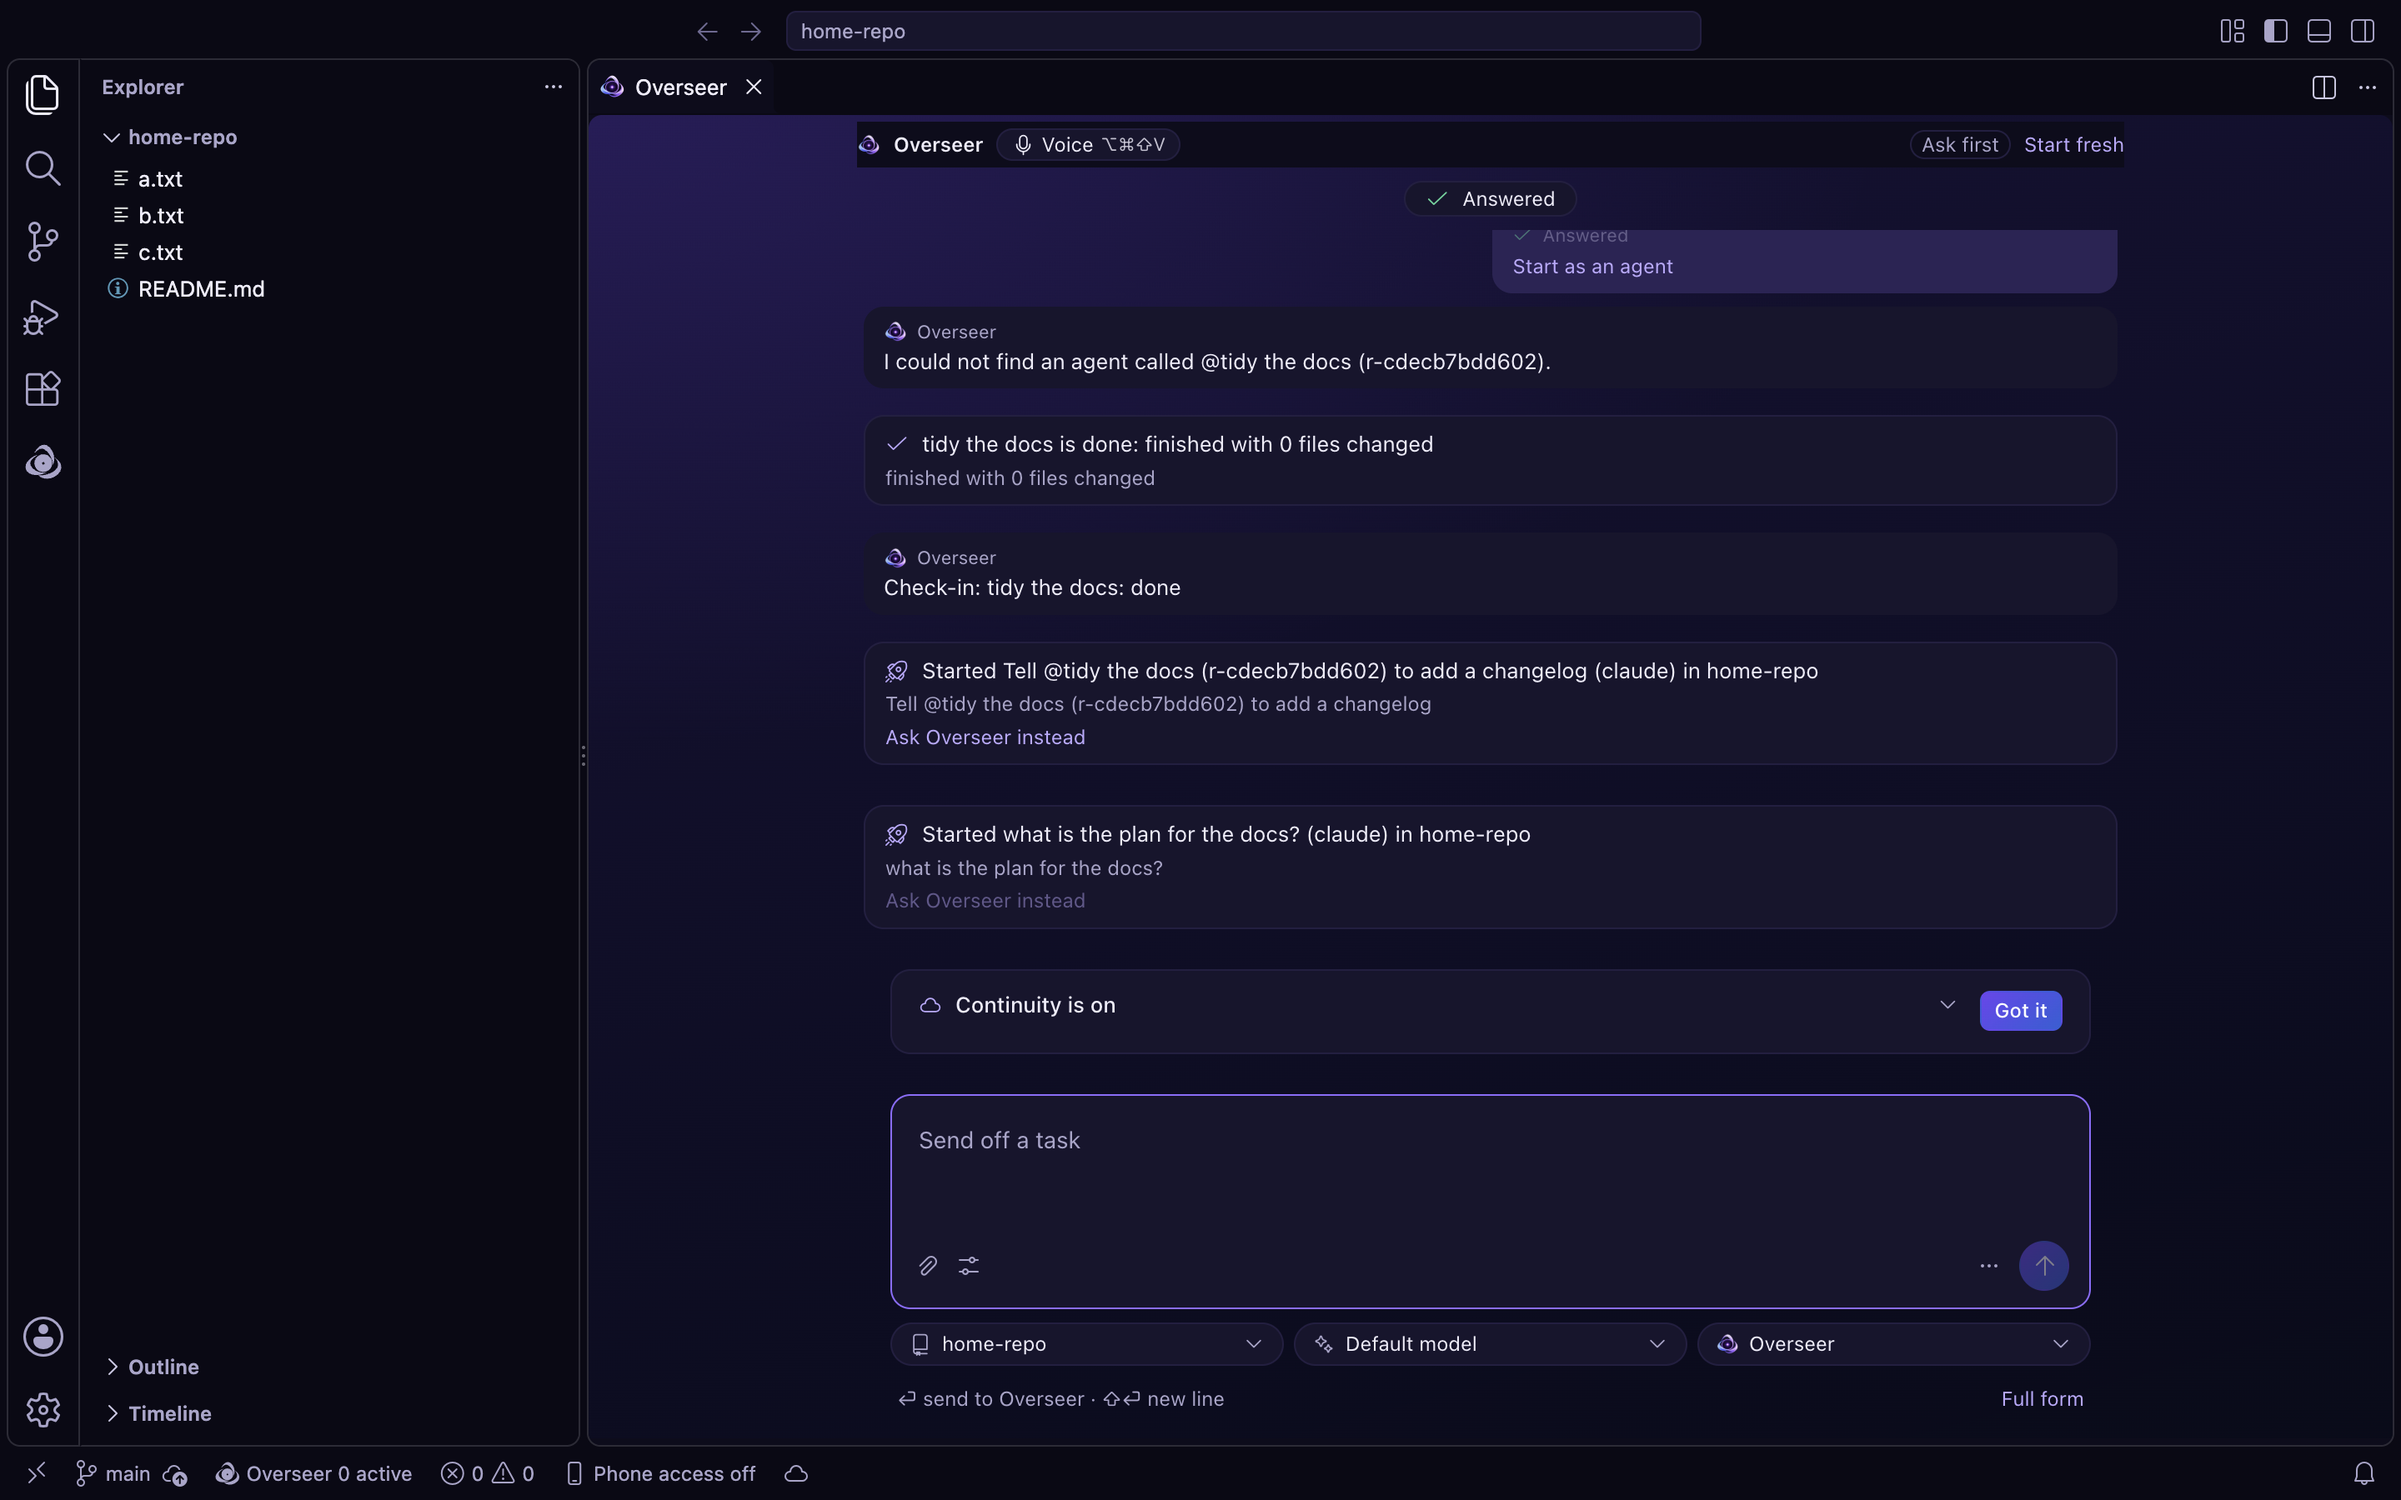
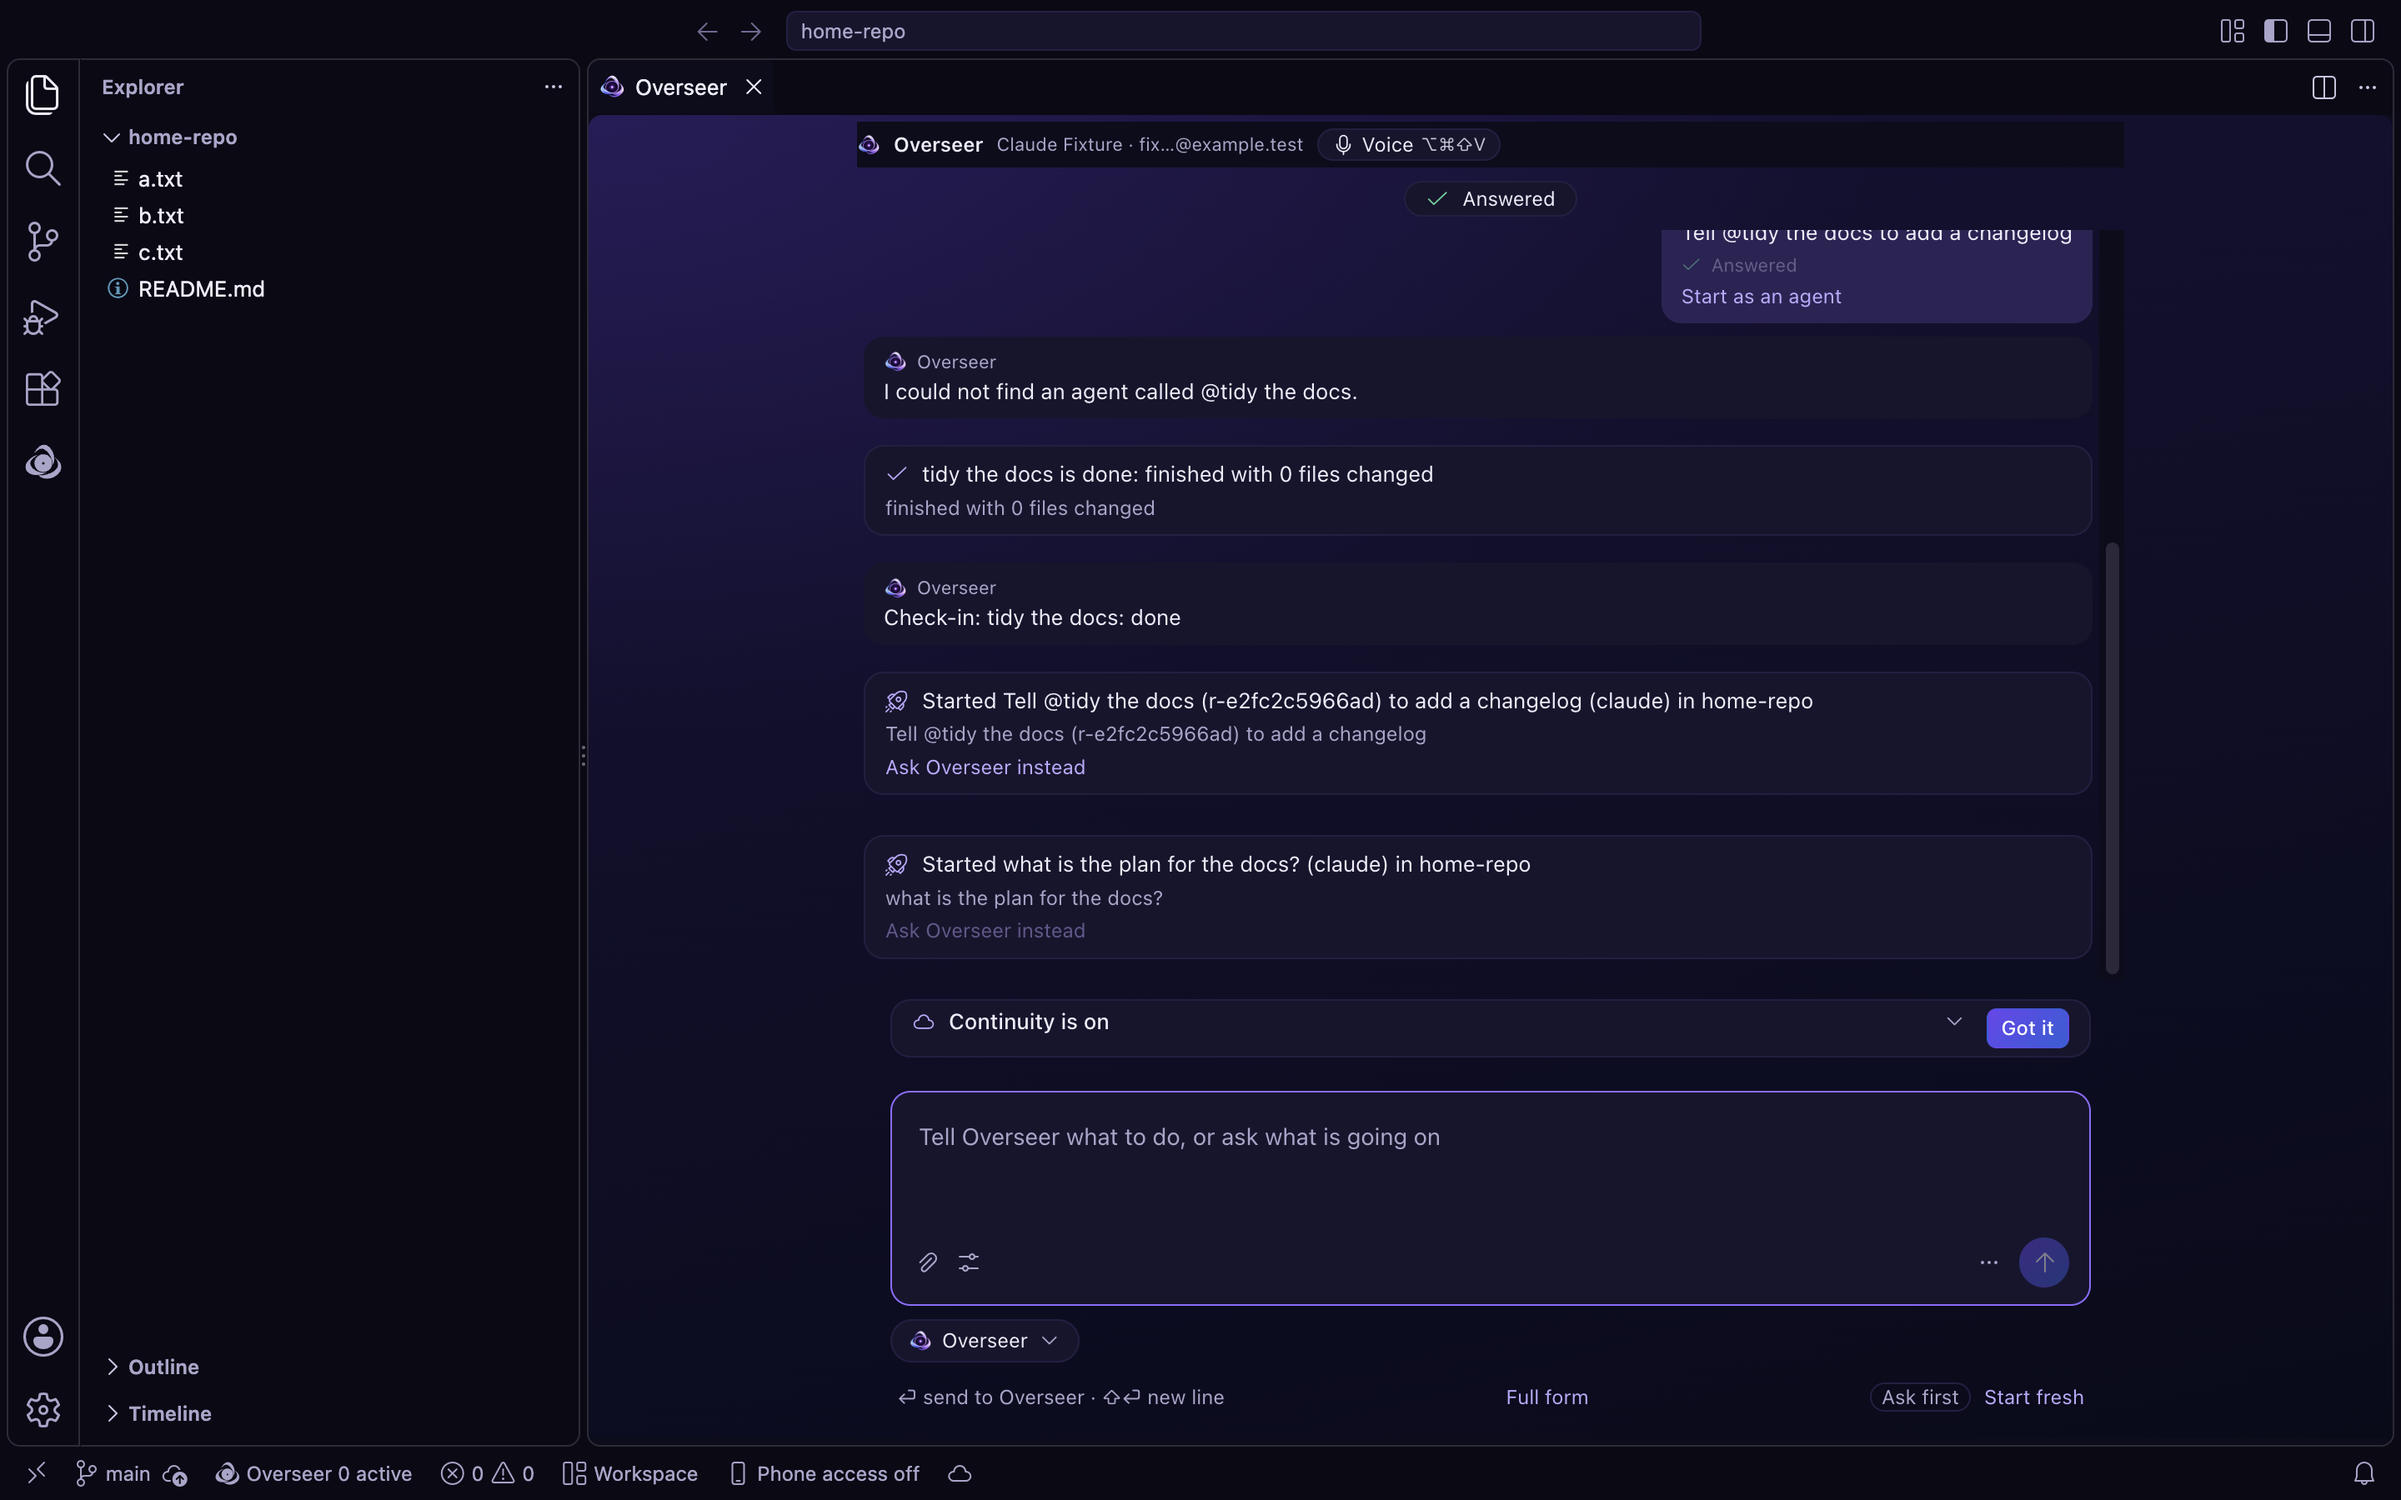
feat(home): Ask first and Start fresh at the bottom right, under the message box (AC-264)
The owner (2026-09-30): the conversation's level and Start fresh move from the Overseer panel's
header to the composer's foot, at its right. They still hide before there is a conversation and
while Overseer sits beside an agent. scenario-home checks the place and screenshots it.

Claude-Session: https://claude.ai/code/session_019W7pthBW8sRbnrHECqQtvR

diff --git a/extension/media/dashboard.css b/extension/media/dashboard.css
@@ -197,7 +197,7 @@ body[data-aside="1"] .view-composer .composer-view { display: none; }
 body[data-aside="1"] .home { padding: 0 var(--ov-space-3); }
 body[data-aside="1"] .home-list { max-height: none; }
 body[data-aside="1"] .voice-mark { width: min(200px, 60%); }
-body[data-aside="1"] .home-voice-heard, body[data-aside="1"] #home-fresh, body[data-aside="1"] .home-level { display: none; }
+body[data-aside="1"] .home-voice-heard, body[data-aside="1"] .home-foot-tools { display: none; }
 @keyframes aside-in { from { transform: translateX(40%); opacity: 0; } to { transform: none; opacity: 1; } }
 @media (prefers-reduced-motion: reduce) { body[data-voice="on"] .home-stage, body[data-aside="1"] .main > .view-composer { animation: none; } }
 .home-list[hidden] { display: none; }
@@ -212,7 +212,8 @@ body[data-conversation="1"] .view-composer > .composer-view, body[data-voice="on
 body[data-conversation="1"] .view-composer .hero-mark, body[data-conversation="1"] .view-composer .hero-title { display: none; }
 /* With cards to read, the mark gives them room. */
 body[data-conversation="1"] .home-stage .voice-mark { width: min(220px, 50vw, 22vh); }
-.home[data-empty="1"] .home-level, .home[data-empty="1"] #home-fresh { display: none; }
+body:not([data-conversation="1"]) .home-foot-tools { display: none; }
+.home-foot-tools { display: flex; align-items: center; gap: var(--ov-space-2); flex: none; }
 
 /* AC-247: home's input is always on screen. A one-time notice (Continuity) above the box is one
    compact line while folded, so it never pushes the input off. */

diff --git a/extension/media/home.js b/extension/media/home.js
@@ -56,7 +56,12 @@
     const backLabel = el('span', 'home-back-agent-label');
     backAgent.append(ui.icon('eye', 'sm'), el('span', 'home-back-agent-verb', 'Back to'), backLabel, el('kbd', null, '⌥⌘U'));
     backAgent.addEventListener('click', () => post({ type: 'backToAgent', runId: backAgent.dataset.run }));
-    head.append(account, vToggle, vstrip, el('span', 'spacer'), needs, level, fresh, unaside);
+    head.append(account, vToggle, vstrip, el('span', 'spacer'), needs, unaside);
+    // The conversation's level and Start fresh sit at the bottom right, under the message box
+    // (the owner, 2026-09-30), in the composer's foot when it is there.
+    const footTools = el('span', 'home-foot-tools'); footTools.append(level, fresh);
+    const composerFoot = host.querySelector('.composer-foot');
+    if (composerFoot) composerFoot.append(footTools); else head.append(footTools);
     // The voice view's stage: the mark, the words heard and said, and the strip's controls.
     const stage = el('section', 'home-stage'); stage.id = 'voice-stage'; stage.hidden = true; stage.setAttribute('aria-label', 'Voice Mode');
     const voiceStage = window.OverseerVoiceStage && layers ? window.OverseerVoiceStage.create(stage, { post, layers }) : null;

diff --git a/test/ui/scenario-home.js b/test/ui/scenario-home.js
@@ -174,6 +174,10 @@ const { Session, makeRepo, latestVsix, delay, repoRoot } = require('./harness');
     // Start fresh, by keyboard.
     await focusTask();
     await tabTo(home, focused('#home-fresh'), { back: true, max: 200 });
+    // The level and Start fresh sit at the bottom right, under the message box (the owner, 2026-09-30).
+    const foot = await home.eval(`(() => { const f = document.getElementById('home-fresh'), l = document.getElementById('home-level'), box = document.querySelector('.composer-foot'); const r = f.getBoundingClientRect(), b = box && box.getBoundingClientRect(); return { inFoot: !!box && box.contains(f) && box.contains(l), level: l.textContent, right: b ? Math.round(b.right - r.right) : null, belowBox: b ? r.top >= b.top : false }; })()`);
+    check('Ask first and Start fresh sit at the bottom right, under the message box', foot.inFoot && foot.level === 'Ask first' && foot.right !== null && foot.right < 24 && foot.belowBox, foot);
+    await s.screenshot('home-level-and-fresh');
     await cdp.key('Enter');
     await home.waitFor(`document.querySelectorAll('#home-conv .home-msg, #home-conv .card').length === 0`, 20000);
     const holds = s.ctl('agent.holds').holds;
